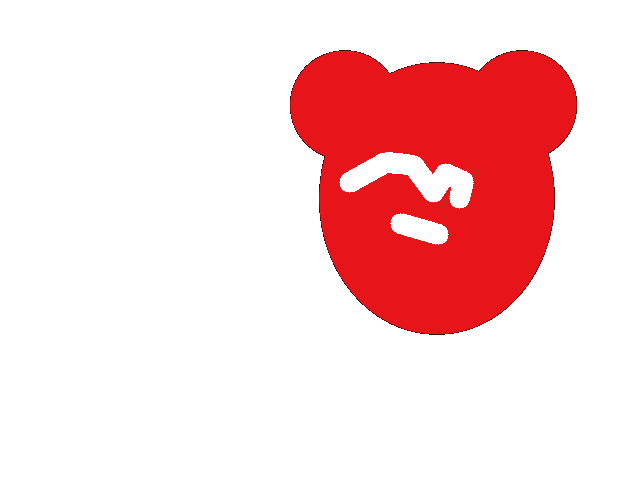
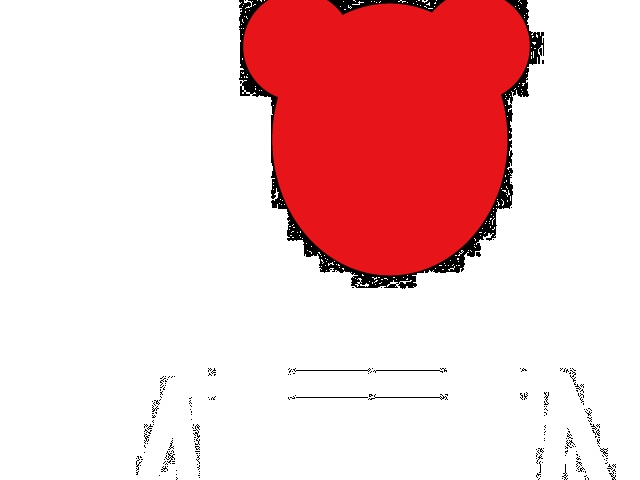
save as transparent

diff --git a/tiikawapose.py b/tiikawapose.py
@@ -13,7 +13,7 @@ face_image = cv2.imread('character_face.png', cv2.IMREAD_UNCHANGED)  # 透過背
 cap = cv2.VideoCapture(0)
 
 # 黒画像を作成
-black_img0 = Image.new('RGBA', (640,480), (0, 0, 0, 255))
+black_img0 = Image.new('RGBA', (640, 480), (0, 0, 0, 200))
 black_img0.save('black_image_with_alpha.png')
 black_img = cv2.imread('black_image_with_alpha.png', cv2.IMREAD_UNCHANGED)
 
@@ -36,7 +36,6 @@ def overlay_image(bg_img, fg_img, position):
 
 # 背景を透過させる関数
 def trans_back(fname):
-
     img = Image.open(fname)
     img = img.convert("RGBA")
     datas = img.getdata()
@@ -52,7 +51,7 @@ def trans_back(fname):
     img.save(fname, "PNG")
 
 # スケルトンを描画する関数
-def draw_thick_skeleton(image, landmarks, connections, thickness=10, color=(0, 0, 255)):
+def draw_thick_skeleton(image, landmarks, connections, thickness=20, color=(0, 0, 255)):
     height, width = image.shape[:2]
     for connection in connections:
         start_idx, end_idx = connection
@@ -98,10 +97,18 @@ with mp_pose.Pose(min_detection_confidence=0.5, min_tracking_confidence=0.5) as 
 
         # 's'キーで画像を保存
         if cv2.waitKey(1) & 0xFF == ord('s'):
-            black_img = overlay_image(black_img, face_image, (nose_x, nose_y))
-            draw_thick_skeleton(black_img, results.pose_landmarks.landmark, mp_pose.POSE_CONNECTIONS, thickness=20, color=(255, 255, 255))
-            cv2.imwrite("captured_image.png", black_img)
-            trans_back("captured_image.png")
+            # 1. 黒画像に骨格を描画
+            skeleton_image = black_img.copy()
+            draw_thick_skeleton(skeleton_image, results.pose_landmarks.landmark, mp_pose.POSE_CONNECTIONS, thickness=20, color=(255, 255, 255))
+
+            # 2. 顔画像を骨格の上に重ねる
+            skeleton_image = overlay_image(skeleton_image, face_image, (nose_x, nose_y))
+
+            # 3. 背景透過処理を行い保存
+            cv2.imwrite("captured_image.jpg", skeleton_image)
+            im = Image.open('captured_image.jpg')
+            im.save('captured_image.png')
+            trans_back('captured_image.png')
             print("Image saved!")
 
         if cv2.waitKey(5) & 0xFF == 27:
